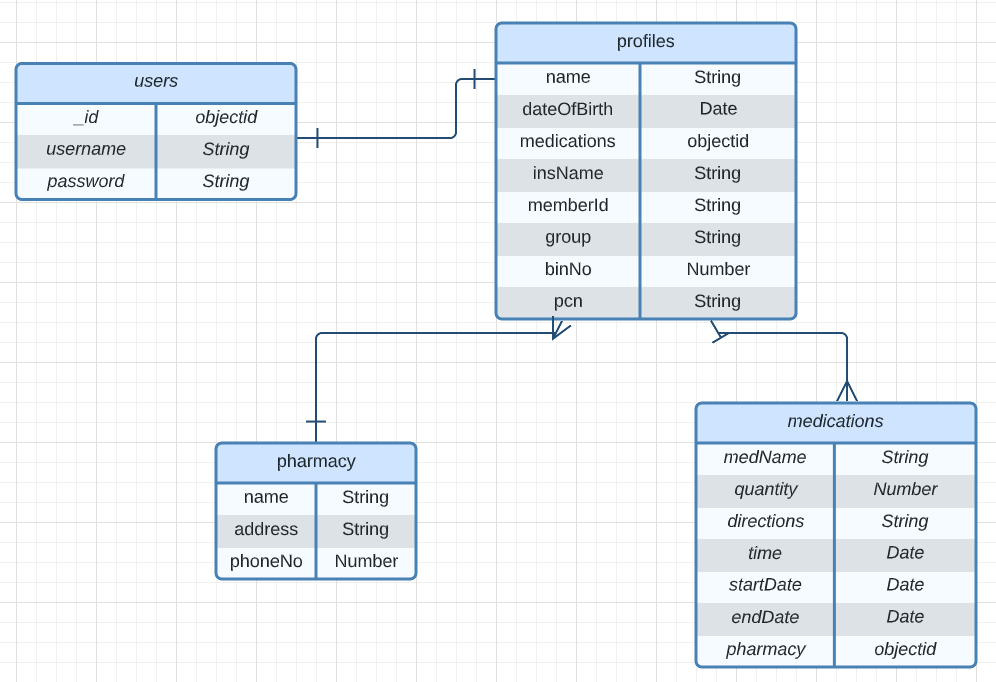
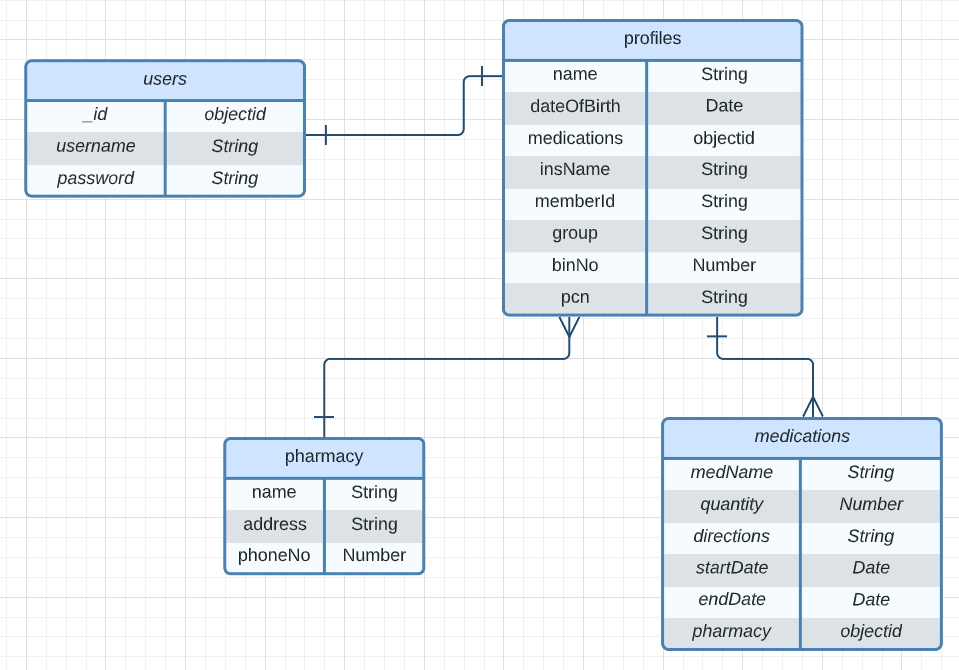
Delete profile/medication options

diff --git a/controllers/medications.js b/controllers/medications.js
@@ -1,0 +1,30 @@
+const Profile = require('../models/profile')
+
+module.exports = {
+    create,
+    delete: deleteMedication
+}
+
+function create(req, res) {
+    Profile.findById(req.params.id, function(err, profile) {
+    profile.medications.push(req.body)
+    console.log(req.params.id)
+    console.log(profile)
+    console.log(req.body)
+    profile.save(function(err) {
+        res.redirect(`/profiles/${profile._id}`);
+      });
+})
+}
+
+function deleteMedication(req, res, next) {
+    Profile.findOne({'medications._id': req.params.id}).then(function(profile) {
+      const medication = profile.medications.id(req.params.id);
+      medication.remove();
+      profile.save().then(function() {
+        res.redirect(`/profiles/${profile._id}`);
+      }).catch(function(err) {
+        return next(err);
+      });
+    });
+  }

diff --git a/controllers/profiles.js b/controllers/profiles.js
@@ -4,7 +4,8 @@ module.exports = {
     new: newProfile,
     create,
     index,
-    show
+    show,
+    delete: deleteProfile
 }
 
 function index(req, res) {
@@ -34,3 +35,12 @@ function show(req, res){
         res.render('profiles/show', { title: 'Profile Detail', profile });
     });
 }
+
+function deleteProfile(req, res) {
+    console.log("profile")
+    Profile.findOne({'_id': req.params.id}).then(function(profile) {
+        console.log(profile)
+      profile.remove();
+        res.redirect(`/profiles`);
+      });
+    }

diff --git a/server.js b/server.js
@@ -13,6 +13,7 @@ require("./config/passport");
 
 var indexRouter = require("./routes/index");
 var profilesRouter = require("./routes/profiles");
+var medicationsRouter = require('./routes/medications');
 
 var app = express();
 
@@ -48,6 +49,7 @@ app.use(function (req, res, next) {
 // ROUTES
 app.use("/", indexRouter);
 app.use("/profiles", profilesRouter);
+app.use('/', medicationsRouter);
 
 // catch 404 and forward to error handler
 app.use(function (req, res, next) {

diff --git a/routes/medications.js b/routes/medications.js
@@ -1,0 +1,12 @@
+var express = require('express');
+var router = express.Router();
+var medicationsCtrl = require('../controllers/medications')
+const isLoggedIn = require("../config/auth");
+
+/* GET users listing. */
+
+router.post('/profiles/:id/medications', isLoggedIn, medicationsCtrl.create);
+router.delete('/medications/:id', medicationsCtrl.delete)
+
+module.exports = router;
+ 

diff --git a/models/profile.js b/models/profile.js
@@ -3,14 +3,13 @@ const Schema = mongoose.Schema;
 
 const medicationSchema = new Schema ({
   medName: String,
+  dosage: String,
   quantity: {
       type: Number,
-      min: 0
+      min: 1
   },
   directions: String,
-  timeTaken: Date,
-  startDate: Date,
-  endDate: Date
+  daySupply: String
 })
 
 const profileSchema = new Schema(

diff --git a/public/stylesheets/style.css b/public/stylesheets/style.css
@@ -6,8 +6,26 @@ body {
   grid-template-rows: 80px 1fr;
 }
 
-ul {
-  list-style: none;
+
+#medication-list {
+  display: grid;
+  grid-template-columns: auto auto;
+  grid-gap: 1rem;
+}
+
+
+a {
+  color: #096b92;
+}
+
+th, td {
+  border: 1px solid black;
+  padding: 5px;
+  text-align: center;
+}
+
+table {
+margin: 20px;
 }
 
 a {

diff --git a/routes/profiles.js b/routes/profiles.js
@@ -8,5 +8,6 @@ router.get("/", isLoggedIn, profilesCtrl.index);
 router.get('/new', isLoggedIn, profilesCtrl.new);
 router.get('/:id', isLoggedIn, profilesCtrl.show)
 router.post('/', profilesCtrl.create);
+router.delete('/:id', profilesCtrl.delete)
 
 module.exports = router;
